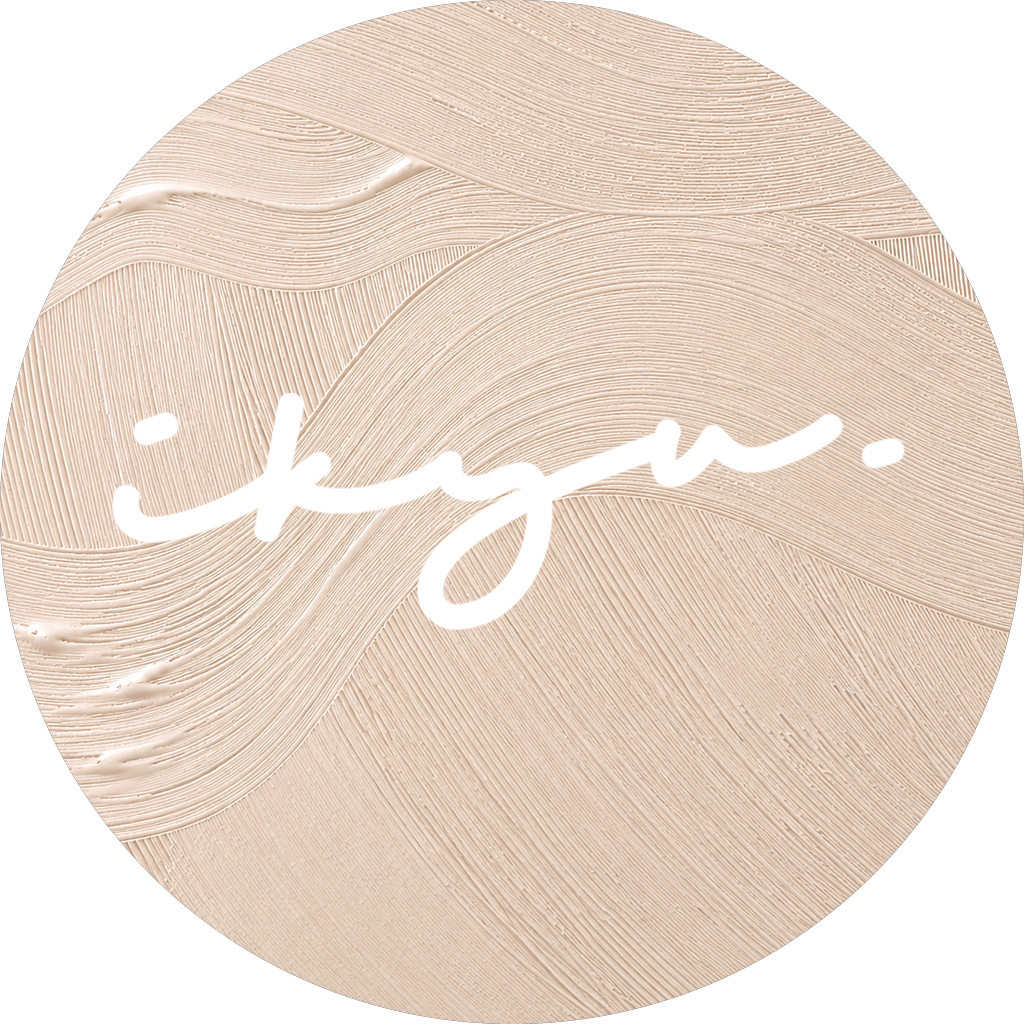
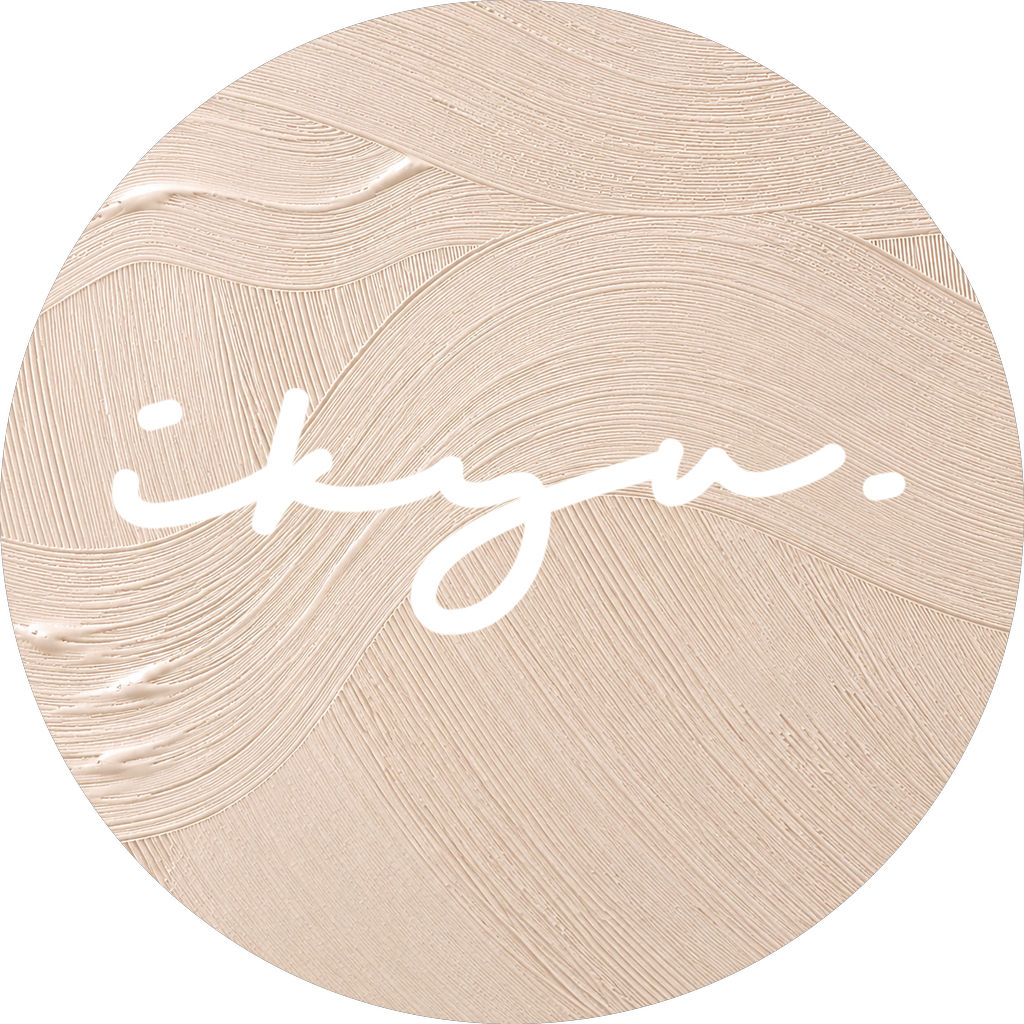
Instagram アイコン Version 2: ロゴを 3.7° 回転して水平にする
サブテキストを付けないため、正式ロゴの右上がりの傾き（筆跡の主軸の実測 3.71°）を
合成時の回転で打ち消す。logo-mark.png は正式ロゴの画素のまま。角度の比較資料を追加。

Claude-Session: https://claude.ai/code/session_018HXMQ5SW1MaVgJrLrjNWTE

diff --git a/design/instagram-icon/build.py b/design/instagram-icon/build.py
@@ -38,6 +38,9 @@ SUBTEXT_BOX = (340, 98)  # x >= 340 かつ y >= 98 を透明にする
 # レイアウト（キャンバス幅に対する比率）
 LOGO_WIDTH = 0.78  # ロゴの横幅
 OFFSET_Y = 0.0  # ロゴ外接矩形の中心を、キャンバス中心からずらす量（下が正）
+# 正式ロゴは右上がりに傾いている（サブテキストと並べる前提の角度）。アイコンでは単独で使うため、
+# 時計回りに回して水平にする。値は筆跡の主軸（画素の重み付き主成分）の実測値。形は変えず回転だけ。
+ROTATE_DEG = 3.7
 
 # 陰影の比較案。opacity は陰影レイヤーの最大不透明度、blur/offset はキャンバス幅に対する比率。
 SHADOW_COLOR = (69, 54, 47)  # 正式ロゴの文字色（ブランドの濃茶）
@@ -60,20 +63,41 @@ def make_mark() -> None:
     print(f"{MARK.relative_to(REPO)}: {crop.shape[1]}x{crop.shape[0]}")
 
 
-def compose(size: int, variant: str) -> Image.Image:
+def tilt_deg(alpha: Image.Image) -> float:
+    """筆跡の主軸の角度（右上がりが正）。画素の不透明度で重み付けした主成分で測る。"""
+    a = np.asarray(alpha, float) / 255
+    ys, xs = np.nonzero(a)
+    w = a[ys, xs]
+    c = np.cov(np.vstack([xs, ys]), aweights=w)
+    vx, vy = np.linalg.eigh(c)[1][:, 1]
+    if vx < 0:
+        vx, vy = -vx, -vy
+    return float(np.degrees(np.arctan2(-vy, vx)))
+
+
+def logo_layer(size: int, rotate: float | None = None) -> Image.Image:
+    """白ロゴのアルファ（キャンバスと同じ大きさ）。拡大 → 回転 → 外接矩形の中心をキャンバス中心へ。"""
+    rotate = ROTATE_DEG if rotate is None else rotate
+    mark_alpha = Image.open(MARK).getchannel("A")
+    w = round(size * LOGO_WIDTH)  # 回転前のロゴ幅で大きさを決める（回転で大きさは変えない）
+    h = round(w * mark_alpha.height / mark_alpha.width)
+    alpha = mark_alpha.resize((w, h), Image.LANCZOS)
+    if rotate:
+        alpha = alpha.rotate(-rotate, resample=Image.BICUBIC, expand=True)
+        alpha = alpha.crop(alpha.getbbox())
+    x = (size - alpha.width) // 2
+    y = (size - alpha.height) // 2 + round(size * OFFSET_Y)
+    layer = Image.new("L", (size, size), 0)
+    layer.paste(alpha, (x, y))
+    return layer
+
+
+def compose(size: int, variant: str, rotate: float | None = None) -> Image.Image:
     v = VARIANTS[variant]
     bg = Image.open(BG).convert("RGB")
     bg = bg.resize((size, size), Image.LANCZOS) if bg.size != (size, size) else bg
 
-    mark_alpha = Image.open(MARK).getchannel("A")
-    w = round(size * LOGO_WIDTH)
-    h = round(w * mark_alpha.height / mark_alpha.width)
-    alpha = mark_alpha.resize((w, h), Image.LANCZOS)
-    x = (size - w) // 2
-    y = (size - h) // 2 + round(size * OFFSET_Y)
-
-    layer = Image.new("L", (size, size), 0)
-    layer.paste(alpha, (x, y))
+    layer = logo_layer(size, rotate)
 
     out = bg.convert("RGBA")
     if v["opacity"] > 0:
@@ -164,6 +188,23 @@ def preview() -> None:
         d.text((x + 170, cell + pad + 40), f"{k}: shadow opacity {v['opacity']:.2f}", fill=(40, 40, 40), font=font(16))
     cmp_.save(PREVIEW / "compare-ABC.png", optimize=True)
 
+    # 角度の比較: 回転なし（正式ロゴのまま）／3.0°／実測の ROTATE_DEG。水平の補助線つき
+    angles = [0.0, 3.0, ROTATE_DEG]
+    cell, pad = 420, 30
+    tilt = Image.new("RGB", (pad + len(angles) * (cell + pad), cell + 2 * pad + 30), "white")
+    d = ImageDraw.Draw(tilt)
+    for i, ang in enumerate(angles):
+        x = pad + i * (cell + pad)
+        im = compose(1024, "B", ang).resize((cell, cell), Image.LANCZOS)
+        tilt.paste(im, (x, pad))
+        lay = logo_layer(cell, ang)
+        _, top, _, bot = lay.getbbox()
+        for yy in (top + (bot - top) * 0.28, top + (bot - top) * 0.62):  # x ハイトの上下あたり
+            d.line((x, pad + yy, x + cell, pad + yy), fill=(220, 60, 60), width=1)
+        t = tilt_deg(lay)
+        d.text((x, pad + cell + 8), f"rotate {ang:.1f} deg  ->  axis tilt {t:+.1f} deg", fill=(40, 40, 40), font=font(15))
+    tilt.save(PREVIEW / "compare-angle.png", optimize=True)
+
     # 検査値
     report = check(imgs)
     (PREVIEW / "checks.json").write_text(json.dumps(report, ensure_ascii=False, indent=2) + "\n")
@@ -183,11 +224,16 @@ def check(imgs: dict) -> dict:
     identical = bool((official[:h, :w][keep] == m[keep]).all())
     # 2. サブテキスト領域が透明
     subtext_removed = bool((m[y0:, x0:, 3] == 0).all())
-    # 3. 円形トリミングに収まるか（ロゴ外接矩形の四隅が内接円の内側か）
+    # 3. 円形トリミングに収まるか（1024px で、ロゴの画素のうち中心から最も遠いものの距離）
     lw = LOGO_WIDTH
-    lh = lw * h / w
-    cy = OFFSET_Y
-    corner = max(np.hypot(lw / 2, cy + s * lh / 2) for s in (-1, 1))
+    layer = logo_layer(1024)
+    la = np.asarray(layer)
+    yy, xx = np.nonzero(la)
+    far = float(np.hypot(xx + 0.5 - 512, yy + 0.5 - 512).max()) / 512
+    bx0, by0, bx1, by1 = layer.getbbox()
+    # 傾き（右上がりが正）: 正式ロゴのまま／回転後
+    tilt_before = tilt_deg(mark.getchannel("A"))
+    tilt_after = tilt_deg(layer)
     # 4. 背景と白の輝度コントラスト（WCAG の式。背景はロゴ周辺の平均）
     bg = np.array(Image.open(BG).convert("RGB")).astype(float)
 
@@ -196,8 +242,8 @@ def check(imgs: dict) -> dict:
         c = np.where(c <= 0.03928, c / 12.92, ((c + 0.055) / 1.055) ** 2.4)
         return 0.2126 * c[..., 0] + 0.7152 * c[..., 1] + 0.0722 * c[..., 2]
 
-    s = bg.shape[0]
-    region = bg[int(s * (0.5 - lh / 2)) : int(s * (0.5 + lh / 2)), int(s * (0.5 - lw / 2)) : int(s * (0.5 + lw / 2))]
+    k = bg.shape[0] / 1024
+    region = bg[int(by0 * k) : int(by1 * k), int(bx0 * k) : int(bx1 * k)]
     lb = lum(region.reshape(-1, 3).mean(0))
     return {
         "official_logo": str(OFFICIAL_LOGO.relative_to(REPO)),
@@ -206,8 +252,11 @@ def check(imgs: dict) -> dict:
         "mark_pixels_identical_to_official_outside_subtext_box": identical,
         "subtext_box_transparent": subtext_removed,
         "logo_width_ratio": lw,
-        "logo_corner_distance_ratio_to_circle_radius": round(float(corner) / 0.5, 3),
-        "fits_in_circle": bool(corner < 0.5),
+        "rotate_deg_clockwise": ROTATE_DEG,
+        "tilt_deg_official_mark": round(tilt_before, 2),
+        "tilt_deg_after_rotation": round(tilt_after, 2),
+        "farthest_logo_pixel_ratio_to_circle_radius": round(far, 3),
+        "fits_in_circle": bool(far < 1),
         "contrast_white_vs_background_mean": round((1.05) / (lb + 0.05), 2),
         "logo_scale_at_1024": round(1024 * lw / w, 2),
         "logo_scale_at_4096": round(4096 * lw / w, 2),

diff --git a/design/instagram-icon/README.md b/design/instagram-icon/README.md
@@ -6,7 +6,7 @@
 
 ## 現在地
 
-- 状態：**デザイン承認待ち**（1024px 確認画像と A/B/C 比較を提出済み）
+- 状態：**デザイン承認待ち**（Version 2：ロゴを水平に回転。1024px 確認画像・A/B/C 比較・角度の比較を提出済み）
 - 次の工程：人間が案（A/B/C）を選ぶ → `python3 build.py final --variant <案>` で 4096px PNG を作り `final/` に追加する
 - 未実施：4096px の完成 PNG（承認後に作る）
 
@@ -23,6 +23,7 @@
 - サブテキストの除去は「x ≥ 340 かつ y ≥ 98 の矩形を透明にする」だけ。事前に連結成分を調べ、この矩形には `ikyu.` の筆跡の画素が 1 つも無いことを確認した（`y` の払いは x ≤ 309 で終わる）。
 - `build.py preview` が毎回、矩形の外の画素が正式ロゴと完全一致することを検査する（`mark_pixels_identical_to_official_outside_subtext_box: true`）。
 - 白ロゴはこのアルファ（形）をそのまま白で塗ったもの。別フォント・描き直し・トレースはしていない。
+- 加える変形は拡大と回転だけ（形は変えない）。`src/logo-mark.png` は回転前の正式ロゴの画素のまま保存し、回転は合成時に行う。
 
 ## レイヤー構成（`build.py`）
 
@@ -30,9 +31,17 @@
 
 | 項目 | 値 |
 | --- | --- |
-| ロゴ横幅 | キャンバスの 78% |
-| 配置 | ロゴ外接矩形の中心＝キャンバス中心 |
-| 円形トリミング | 外接矩形の四隅が内接円の半径の 81% 以内（切れない） |
+| ロゴ横幅 | キャンバスの 78%（回転前の幅） |
+| 角度 | 時計回りに 3.7° 回転して水平にする（下記） |
+| 配置 | 回転後のロゴ外接矩形の中心＝キャンバス中心 |
+| 円形トリミング | 中心から最も遠いロゴの画素が内接円の半径の 79% 以内（切れない） |
+
+### 角度（Version 2・人間の指示）
+
+正式ロゴは「handmade accessories」と並べる前提で右上がりに傾いている。アイコンではサブテキストを付けないため、水平にする（人間の指示。指示時の見立ては約 3°）。
+
+- 実測：筆跡の主軸（画素の不透明度で重み付けした主成分）は **右上がり 3.71°**。列ごとの筆跡の重心を直線で近似すると 4.8°、下端を結ぶと 5〜6°（手書きのベースラインは揺れるため、全体の向きを表す主軸を採用）
+- 回転量 3.7° で主軸は 0.0°。3.0° では 0.7° の右上がりが残る（`preview/compare-angle.png`）
 
 | 案 | 陰影 | 見え方 |
 | --- | --- | --- |
@@ -46,6 +55,7 @@
 - `circle-1024-{A,B,C}.png`：Instagram の円形表示の再現（正方形の内接円で切り抜き）
 - `small-{A,B,C}.png`：実寸の円形表示（150 / 110 / 77 / 56 / 44 / 32px、ライト・ダーク画面）
 - `compare-ABC.png`：3 案を同じ縮尺で並べた比較
+- `compare-angle.png`：回転なし／3.0°／3.7° の比較（水平の補助線つき）
 - `checks.json`：機械検査の結果
 
 ## 解像度について（事実）
